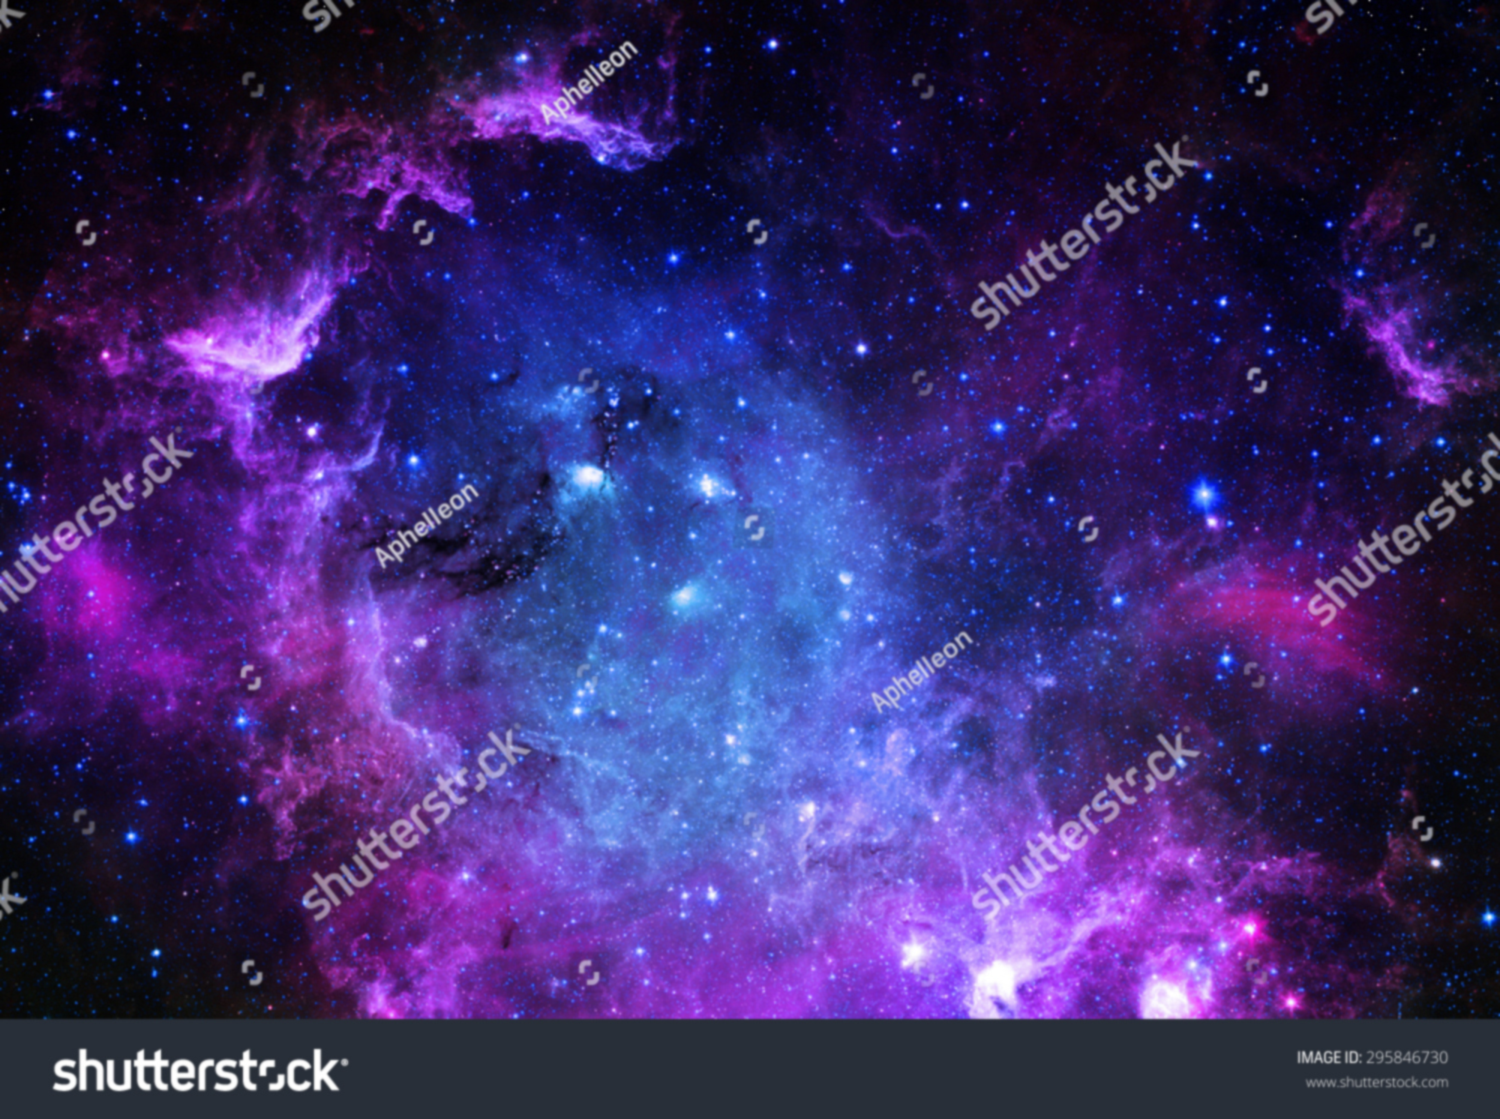
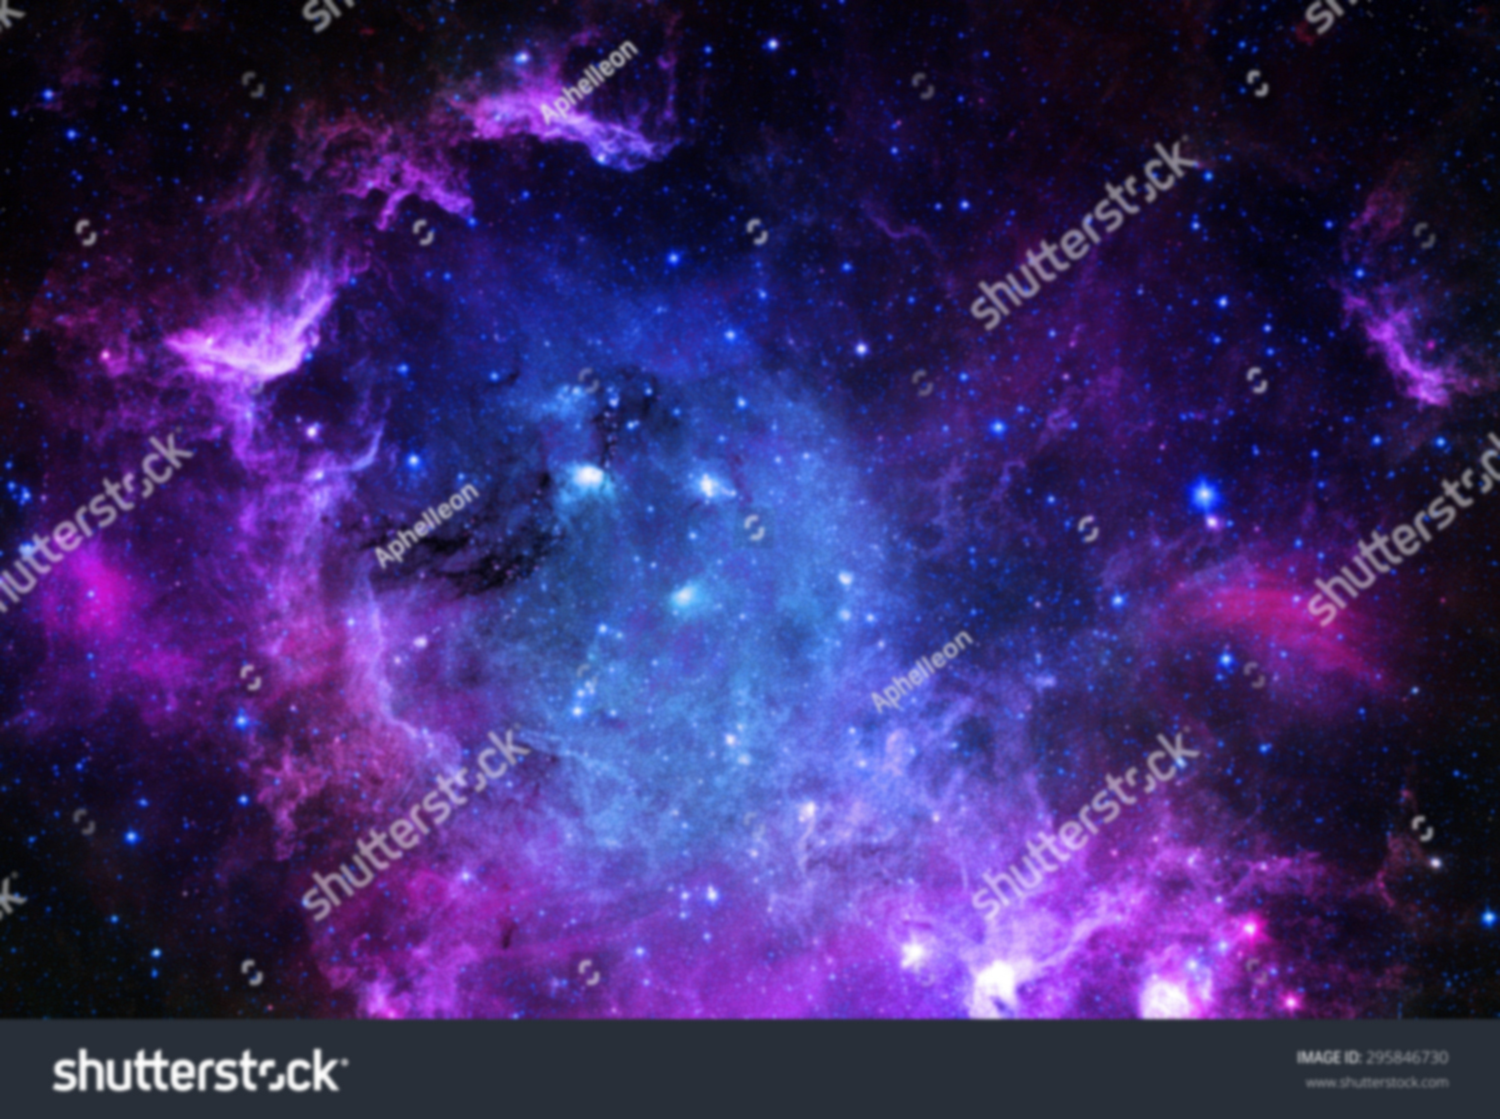
Testing image manip

diff --git a/ImgManip.py b/ImgManip.py
@@ -4,7 +4,7 @@ from PIL import Image
 from PIL import ImageFilter
 import os
 for filename in os.listdir("."): # parse through file list in the current directory
-     if filename[-3:] == "png":
+     if filename[-3:] == "jpg":
           img = Image.open(filename)
           img = img.convert("RGBA")
           pixdata = img.load()
@@ -16,5 +16,5 @@ for filename in os.listdir("."): # parse through file list in the current direct
                     #Remove anti-aliasing outline of body.
                     if r == 0 and g == 0 and b == 0:
                          pixdata[x, y] = (255, 255, 255, 0)
-          img2 = img.filter(ImageFilter.GaussianBlur(radius=1))
-          img2.save(filename, "png")
+          #     img2 = img.filter(ImageFilter.GaussianBlur(radius=1))
+          img.save(filename + "output", "JPEG")
